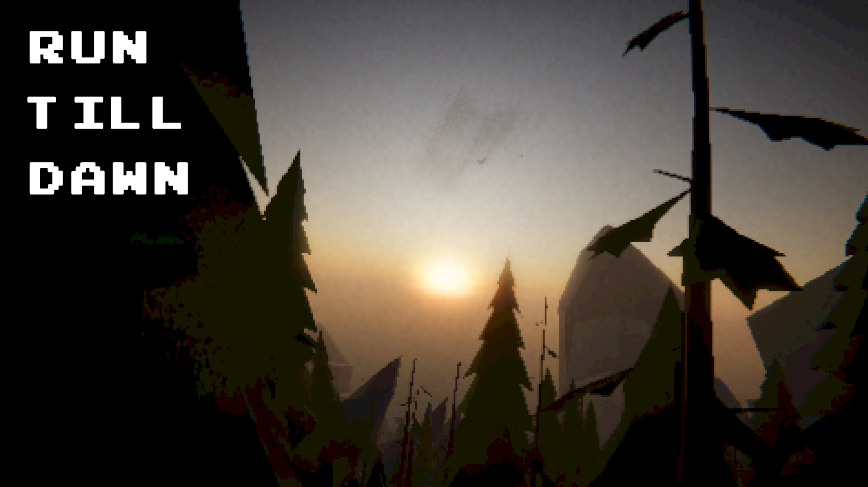
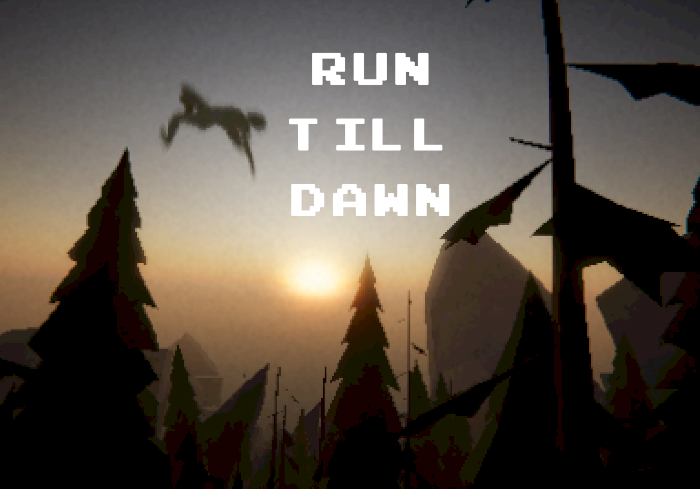
Screenshots
Added screenshots, tweaked lighting and a few textures.

diff --git a/LD55/Assets/PlayerController.cs b/LD55/Assets/PlayerController.cs
@@ -163,7 +163,7 @@ public class PlayerController : MonoBehaviour
         {
             _won = false;
             PersistentObj.instance.SetUI( 2, false );
-
+            PersistentObj.instance.SetUI( 1, false );
 
             _hasCrashed = false;
             print( "RESET GAME" );
@@ -187,7 +187,7 @@ public class PlayerController : MonoBehaviour
 
             _camControl.ResetCam();
 
-            PersistentObj.instance.SetUI( 1, false );
+            //PersistentObj.instance.SetUI( 1, false );
         }
 
         _currentProgress = Mathf.Clamp(1 - (transform.transform.position.z - _winProgresMarker.transform.position.z / Mathf.Abs( _startProgressMarker.transform.position.z - _winProgresMarker.transform.position.z )) + 200,0, _progressThreshold );
@@ -196,7 +196,7 @@ public class PlayerController : MonoBehaviour
 
         if (PersistentObj.instance != null) PersistentObj.instance.ChangeProgressUI( (( int )( _progressPercentage * 1000 ) / 10f ).ToString() + "%" );
 
-        _sunlight.transform.rotation = Quaternion.Euler( Mathf.Lerp(_sunlightrotBounds.x, _sunlightrotBounds.y, _progressPercentage*_progressPercentage), 0, 0 );
+        _sunlight.transform.rotation = Quaternion.Euler( Mathf.Lerp(_sunlightrotBounds.x, _sunlightrotBounds.y, _progressPercentage*_progressPercentage* _progressPercentage ), 0, 0 );
 
         //WE WIN
         if( _progressPercentage > 0.99f && !_won)
